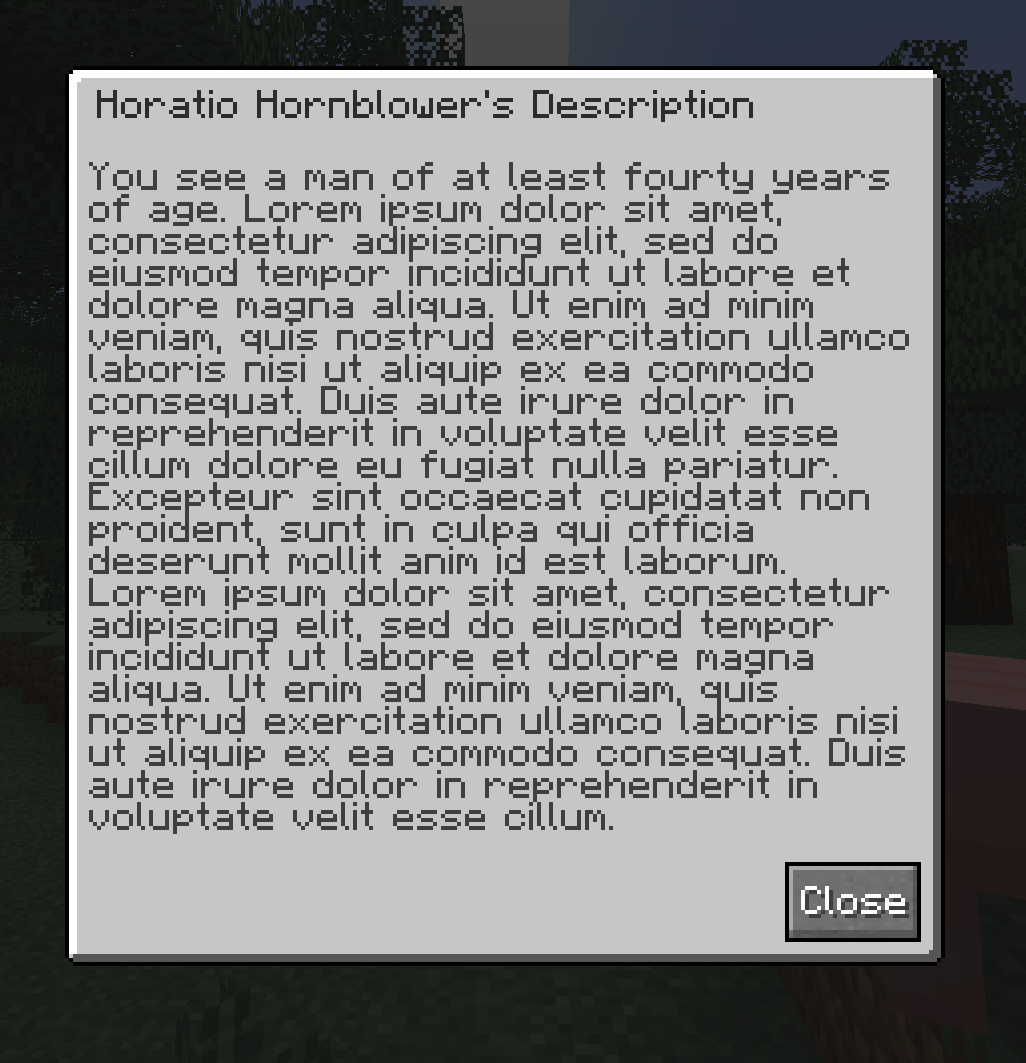
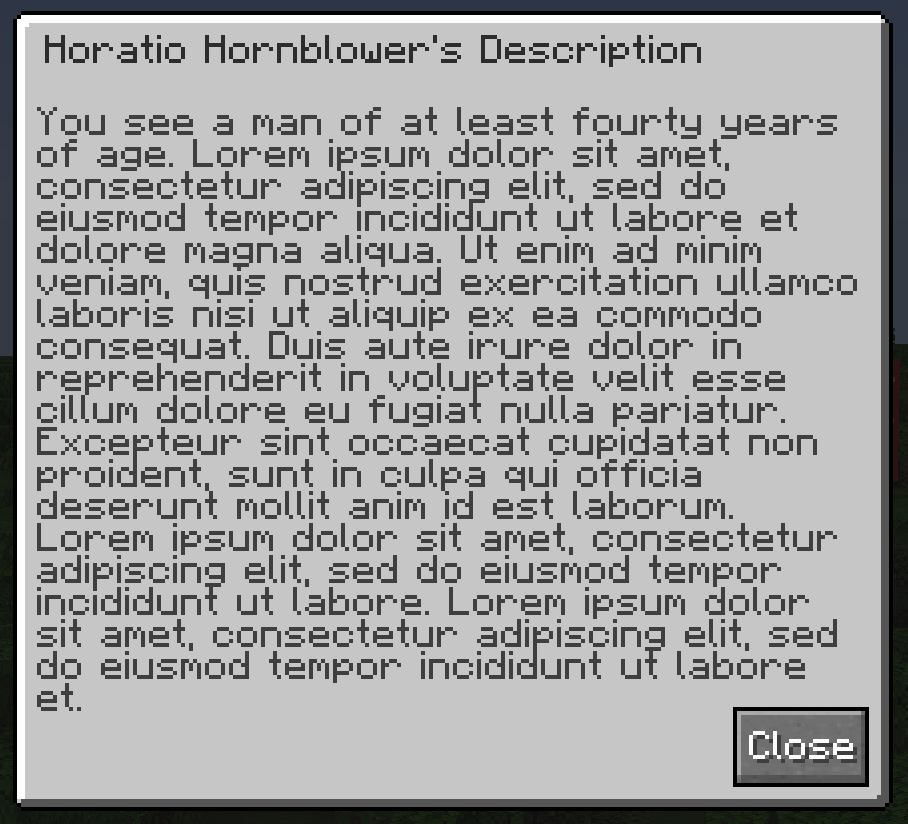
push to 1.0.4

diff --git a/src/main/java/com/zonespace/rpplayerinfo/client/gui/RPInfoScreen.java b/src/main/java/com/zonespace/rpplayerinfo/client/gui/RPInfoScreen.java
@@ -120,7 +120,7 @@ public class RPInfoScreen extends Screen {
         
         descriptionCloseButton = addRenderableWidget(new Button(
             leftPos + 180,
-            topPos + 199,
+            topPos + 174,
             34,
             20,
             Component.translatable("gui.rpplayerinfo.rp_info_screen.button.close"),
@@ -204,7 +204,7 @@ public class RPInfoScreen extends Screen {
                 100, 
                 20, 
                 Component.literal(ClientPlayerRPData.getDescription())));
-            descriptionEditBox.setMaxLength(800);
+            descriptionEditBox.setMaxLength(700);
             descriptionEditBox.setValue(ClientPlayerRPData.getDescription());
         } else {
             descriptionViewButton = addRenderableWidget(new Button(
@@ -326,19 +326,19 @@ public class RPInfoScreen extends Screen {
             if(isOwner) {
                 font.draw(graphics, Component.translatable("gui." + RPPlayerInfo.MODID + ".rp_info_screen.string.name").getVisualOrderText(), this.leftPos + 5, this.topPos + 25, 0x404040);
             } else {
-                font.draw(graphics, Component.literal(rpData.getName()).withStyle(ChatFormatting.BOLD), this.leftPos + 10, this.topPos + 25, 0x404040);
+                font.draw(graphics, Component.literal(rpData.getName()).withStyle(ChatFormatting.BOLD), this.leftPos + 10, this.topPos + 35, 0x404040);
             }
             
             if(isOwner) {
                 font.draw(graphics, Component.translatable("gui." + RPPlayerInfo.MODID + ".rp_info_screen.string.race").getVisualOrderText(), this.leftPos + 5, this.topPos + 50, 0x404040);
             } else {
-                font.draw(graphics, Component.literal(rpData.getRace()).withStyle(ChatFormatting.BOLD), this.leftPos + 10, this.topPos + 50, 0x404040);
+                font.draw(graphics, Component.literal(rpData.getRace()).withStyle(ChatFormatting.BOLD), this.leftPos + 10, this.topPos + 60, 0x404040);
             }
 
             if(isOwner) {
                 font.draw(graphics, Component.translatable("gui." + RPPlayerInfo.MODID + ".rp_info_screen.string.gender").getVisualOrderText(), this.leftPos + 5, this.topPos + 75, 0x404040);
             } else {
-                font.draw(graphics, Component.literal(convertGenderEnumToButton(rpData.getGender()).getString() + "  " + String.valueOf(rpData.getHeightFeet()) + "'" + String.valueOf(rpData.getHeightInches()) + "\"").withStyle(ChatFormatting.BOLD), this.leftPos + 10, this.topPos + 75, 0x404040);
+                font.draw(graphics, Component.literal(convertGenderEnumToButton(rpData.getGender()).getString() + "  " + String.valueOf(rpData.getHeightFeet()) + "'" + String.valueOf(rpData.getHeightInches()) + "\"").withStyle(ChatFormatting.BOLD), this.leftPos + 10, this.topPos + 85, 0x404040);
             }
         
             if(isOwner) {
@@ -355,16 +355,16 @@ public class RPInfoScreen extends Screen {
                 font.draw(graphics, Component.translatable("gui." + RPPlayerInfo.MODID + ".rp_info_screen.string.ptk").getVisualOrderText(), this.leftPos + 5, this.topPos + 150, 0x404040); //0xFF0000
             }
             if(!isOwner) {
-                font.draw(graphics, Component.translatable("gui." + RPPlayerInfo.MODID + ".rp_info_screen.string.ptm.short"), this.leftPos + 155, this.topPos + 90, 0x404040);
+                font.draw(graphics, Component.translatable("gui." + RPPlayerInfo.MODID + ".rp_info_screen.string.ptm.short"), this.leftPos + 155, this.topPos + 95, 0x404040);
                 font.draw(graphics, Component.translatable("gui." + RPPlayerInfo.MODID + ".rp_info_screen.string.ptk.short"), this.leftPos + 155, this.topPos + 115, 0x404040); //0xFF0000
-                font.draw(graphics, convertPermissionEnumToButton(rpData.getPermissionToMaim()), this.leftPos + 185, this.topPos + 90, 0xbf1313);
+                font.draw(graphics, convertPermissionEnumToButton(rpData.getPermissionToMaim()), this.leftPos + 185, this.topPos + 95, 0xbf1313);
                 font.draw(graphics, convertPermissionEnumToButton(rpData.getPermissionToKill()), this.leftPos + 185, this.topPos + 115, 0xbf1313);
             }
 
             if(isOwner) {
                 font.draw(graphics, Component.translatable("gui." + RPPlayerInfo.MODID + ".rp_info_screen.string.desc").getVisualOrderText(), this.leftPos + 5, this.topPos + 177, 0x404040);
             }
-            renderPlayer(leftPos + 180, topPos + 78, 32, (float)(leftPos + 180) - mouseX, (float)(topPos + 78 - 50) - mouseY, targetPlayer);
+            renderPlayer(leftPos + 180, topPos + 84, 32, (float)(leftPos + 180) - mouseX, (float)(topPos + 78 - 50) - mouseY, targetPlayer);
        
         } else {
             if(isOwner) {
@@ -481,18 +481,12 @@ public class RPInfoScreen extends Screen {
     }
 
 
+    @SuppressWarnings("null")
     private void recalcImageWidth() {
-        if(isViewingDescription) {
-            imageHeight = 225;
-            imageWidth = 220;
-            return;
-        }
-        if(isOwner) {
-            this.imageWidth = 220;
-            this.imageHeight = 200;
-        } else {
-            this.imageWidth = 220;
-            this.imageHeight = 136;
+        imageWidth = 220;
+        imageHeight = (isOwner || isViewingDescription) ? 200 : 136;
+        if(minecraft != null) {
+            init(minecraft, minecraft.getWindow().getGuiScaledWidth(), minecraft.getWindow().getGuiScaledHeight());
         }
     }
 
@@ -521,9 +515,4 @@ public class RPInfoScreen extends Screen {
         ModMessages.sendToServer(new PlayerDataSyncC2SPacket(ClientPlayerRPData.getPermissionToKill(), ClientPlayerRPData.getPermissionToMaim(), ClientPlayerRPData.getGender(), ClientPlayerRPData.getHeightInches(), ClientPlayerRPData.getHeightFeet(), ClientPlayerRPData.getDescription(), ClientPlayerRPData.getName(), ClientPlayerRPData.getRace()));
     }
 
-
-   /* @Override
-    public boolean isPauseScreen() {
-        return false;
-    }*/
 }

diff --git a/src/main/java/com/zonespace/rpplayerinfo/RPPlayerInfo.java b/src/main/java/com/zonespace/rpplayerinfo/RPPlayerInfo.java
@@ -1,15 +1,20 @@
 package com.zonespace.rpplayerinfo;
 
 import com.zonespace.rpplayerinfo.client.KeybindHandler;
+import com.zonespace.rpplayerinfo.data.PlayerRPData;
 import com.zonespace.rpplayerinfo.data.PlayerRPDataProvider;
 import com.zonespace.rpplayerinfo.networking.ModMessages;
+import com.zonespace.rpplayerinfo.networking.packet.PlayerDataSyncS2CPacket;
+import com.zonespace.rpplayerinfo.networking.packet.PlayerLoginSyncS2CPacket;
 
 import net.minecraft.resources.ResourceLocation;
+import net.minecraft.server.level.ServerPlayer;
 import net.minecraft.world.entity.Entity;
 import net.minecraft.world.entity.player.Player;
 import net.minecraftforge.api.distmarker.Dist;
 import net.minecraftforge.common.MinecraftForge;
 import net.minecraftforge.common.capabilities.RegisterCapabilitiesEvent;
+import net.minecraftforge.eventbus.api.EventPriority;
 import net.minecraftforge.eventbus.api.IEventBus;
 import net.minecraftforge.eventbus.api.SubscribeEvent;
 import net.minecraftforge.fml.common.Mod;
@@ -20,18 +25,15 @@ import net.minecraftforge.event.entity.player.PlayerEvent;
 import net.minecraftforge.fml.javafmlmod.FMLJavaModLoadingContext;
 import net.minecraftforge.fml.loading.FMLEnvironment;
 
-// The value here should match an entry in the META-INF/mods.toml file
 @Mod(RPPlayerInfo.MODID)
 public class RPPlayerInfo
 {
-    // Define mod id in a common place for everything to reference
     public static final String MODID = "rpplayerinfo";
 
     public RPPlayerInfo()
     {
         IEventBus modEventBus = FMLJavaModLoadingContext.get().getModEventBus();
 
-        // Register ourselves for server and other game events we are interested in
         MinecraftForge.EVENT_BUS.register(this);
         
         if (FMLEnvironment.dist == Dist.CLIENT) {
@@ -48,21 +50,8 @@ public class RPPlayerInfo
         }
     }
 
-    @Mod.EventBusSubscriber(modid = RPPlayerInfo.MODID, bus = Mod.EventBusSubscriber.Bus.MOD, value = Dist.DEDICATED_SERVER)
+    @Mod.EventBusSubscriber(modid = RPPlayerInfo.MODID, bus = Mod.EventBusSubscriber.Bus.MOD)
     public static class CommonModEvents {
-
-        @SubscribeEvent
-        public static void commonSetup(final FMLCommonSetupEvent event)
-        {
-            event.enqueueWork(() -> {
-                ModMessages.register();
-            });
-        }
-
-    }
-
-    @Mod.EventBusSubscriber(modid = RPPlayerInfo.MODID, bus = Mod.EventBusSubscriber.Bus.MOD, value = Dist.CLIENT)
-    public static class CommonModEvents2 {
 
         @SubscribeEvent
         public static void commonSetup(final FMLCommonSetupEvent event)
@@ -103,5 +92,14 @@ public class RPPlayerInfo
         }
     }
 
+    @SubscribeEvent(priority = EventPriority.LOWEST)
+    public void playerLogin(PlayerEvent.PlayerLoggedInEvent event) {
+        ServerPlayer player = (ServerPlayer)event.getEntity();
+        PlayerRPData rpData = player.getCapability(PlayerRPDataProvider.PLAYER_RP_DATA).resolve().get();
+        ModMessages.sendToPlayer(new PlayerDataSyncS2CPacket(rpData.getPermissionToKill(), rpData.getPermissionToMaim(), rpData.getGender(), rpData.getHeightInches(), rpData.getHeightFeet(), rpData.getDescription(), rpData.getName(), rpData.getRace()), player);
+        for(ServerPlayer serverPlayer : player.getLevel().getServer().getPlayerList().getPlayers()) {
+            ModMessages.sendToPlayer(new PlayerLoginSyncS2CPacket(), serverPlayer);
+        }
+    }
 
 }

diff --git a/src/main/java/com/zonespace/rpplayerinfo/networking/ModMessages.java b/src/main/java/com/zonespace/rpplayerinfo/networking/ModMessages.java
@@ -5,6 +5,7 @@ import org.lwjgl.system.windows.MSG;
 import com.zonespace.rpplayerinfo.RPPlayerInfo;
 import com.zonespace.rpplayerinfo.networking.packet.PlayerDataSyncC2SPacket;
 import com.zonespace.rpplayerinfo.networking.packet.PlayerDataSyncS2CPacket;
+import com.zonespace.rpplayerinfo.networking.packet.PlayerLoginSyncS2CPacket;
 import com.zonespace.rpplayerinfo.networking.packet.PlayerToPlayerSyncS2CPacket;
 import com.zonespace.rpplayerinfo.networking.packet.RoundRobinSyncC2SPacket;
 
@@ -43,6 +44,13 @@ public class ModMessages {
             .encoder(PlayerToPlayerSyncS2CPacket::toBytes)
             .consumerMainThread(PlayerToPlayerSyncS2CPacket::handle)
             .add();
+
+        net.messageBuilder(PlayerLoginSyncS2CPacket.class, id(), NetworkDirection.PLAY_TO_CLIENT)
+            .decoder(PlayerLoginSyncS2CPacket::new)
+            .encoder(PlayerLoginSyncS2CPacket::toBytes)
+            .consumerMainThread(PlayerLoginSyncS2CPacket::handle)
+            .add();
+
 
         net.messageBuilder(PlayerDataSyncC2SPacket.class, id(), NetworkDirection.PLAY_TO_SERVER)
             .decoder(PlayerDataSyncC2SPacket::new)

diff --git a/src/main/java/com/zonespace/rpplayerinfo/networking/packet/PlayerLoginSyncS2CPacket.java b/src/main/java/com/zonespace/rpplayerinfo/networking/packet/PlayerLoginSyncS2CPacket.java
@@ -1,0 +1,28 @@
+package com.zonespace.rpplayerinfo.networking.packet;
+
+import java.util.function.Supplier;
+
+import com.zonespace.rpplayerinfo.client.ClientPlayerRPData;
+import com.zonespace.rpplayerinfo.networking.ModMessages;
+
+import net.minecraft.network.FriendlyByteBuf;
+import net.minecraftforge.network.NetworkEvent;
+
+public class PlayerLoginSyncS2CPacket {
+    public PlayerLoginSyncS2CPacket() {}
+
+    public PlayerLoginSyncS2CPacket(FriendlyByteBuf buf) {}
+
+    public void toBytes(FriendlyByteBuf buf) {}
+
+    public boolean handle(Supplier<NetworkEvent.Context> supplier) {
+        NetworkEvent.Context context = supplier.get();
+        context.enqueueWork(() -> {
+            // on the client
+            ModMessages.sendToServer(new PlayerDataSyncC2SPacket(ClientPlayerRPData.getPermissionToKill(), ClientPlayerRPData.getPermissionToMaim(), ClientPlayerRPData.getGender(), ClientPlayerRPData.getHeightInches(), ClientPlayerRPData.getHeightFeet(), ClientPlayerRPData.getDescription(), ClientPlayerRPData.getName(), ClientPlayerRPData.getRace()));
+        });
+        return true;
+    }
+
+}
+

diff --git a/src/main/java/com/zonespace/rpplayerinfo/data/PlayerRPData.java b/src/main/java/com/zonespace/rpplayerinfo/data/PlayerRPData.java
@@ -8,8 +8,10 @@ public class PlayerRPData {
     private EPlayerPermission permissionToKill = EPlayerPermission.PERMISSION_ASK;
     private EPlayerPermission permissionToMaim = EPlayerPermission.PERMISSION_ASK;
     private EPlayerGender gender = EPlayerGender.GENDER_MALE;
+    
     private int heightInches = 8;
     private int heightFeet = 5;
+
     private String description = "Empty description";
     private String name = "John Doe";
     private String race = "Human";

diff --git a/README.md b/README.md
@@ -1,6 +1,6 @@
 # Roleplay Info Panel
 
-A mod for Minecraft Forge that allows for players to create a roleplay profile for themselves that other people are capable of viewing.
+A mod for Minecraft Forge that allows for players to create a roleplay profile for themselves that other people are capable of viewing. As the name would suggest, this is primarily for roleplay servers.
 
 ## Use
 
@@ -29,5 +29,20 @@ Localized in the following languages:
 - ES-ES
 - ES-MX
 - BG-BG (Credit: Gork)
+- DE-DE (Credit: Cern)
+- IT-IT (Credit: Cern)
 
 If you are interested in localizing this for a language you know, pull requests are always welcome.
+
+## Questions
+
+- Will this be ported to other versions?
+
+  - It's possible. If there's interest, I'll look into porting it to a given version.
+
+- Will this be ported to other modloaders?
+
+  - See above answer.
+
+- Pull requests?
+  - I am always accepting pull requests for fixes, localization, or additions.
